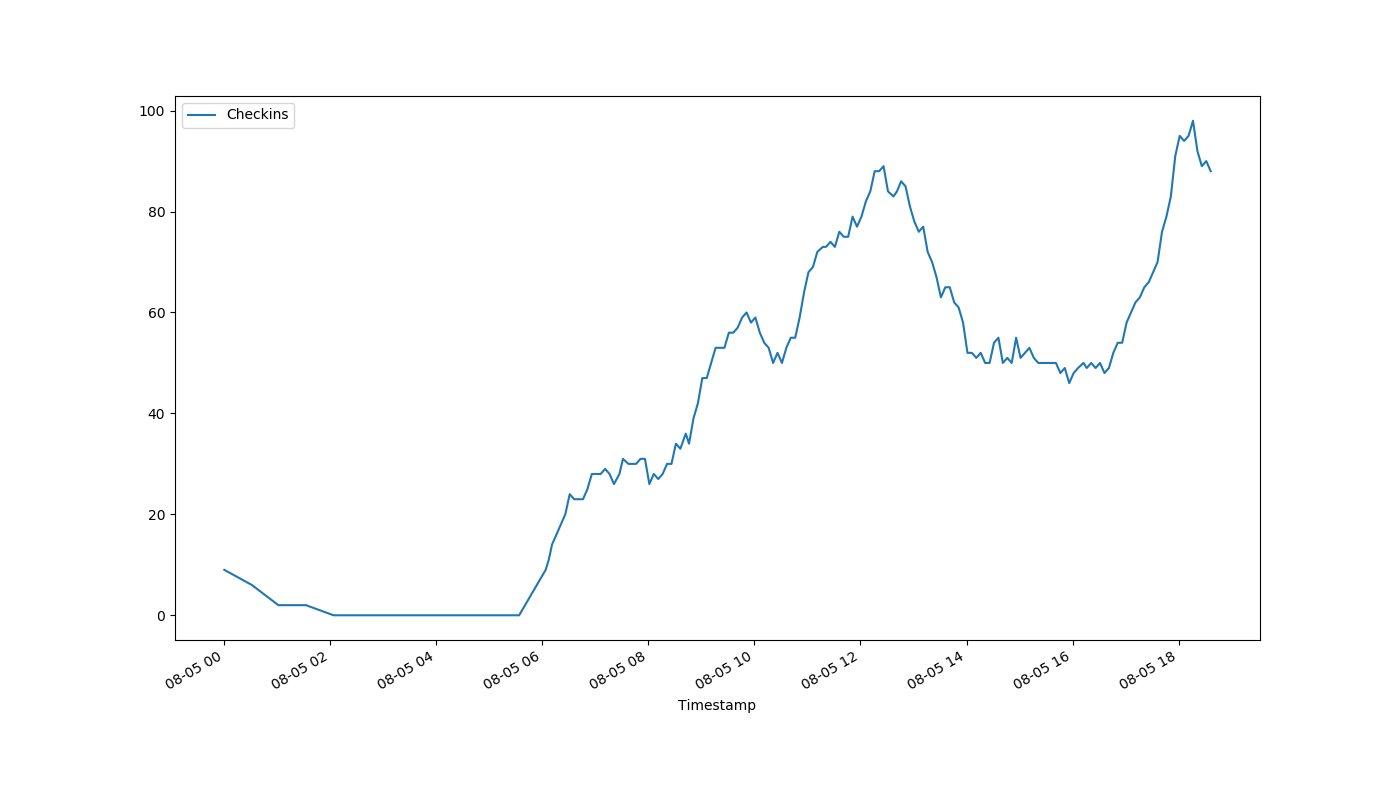
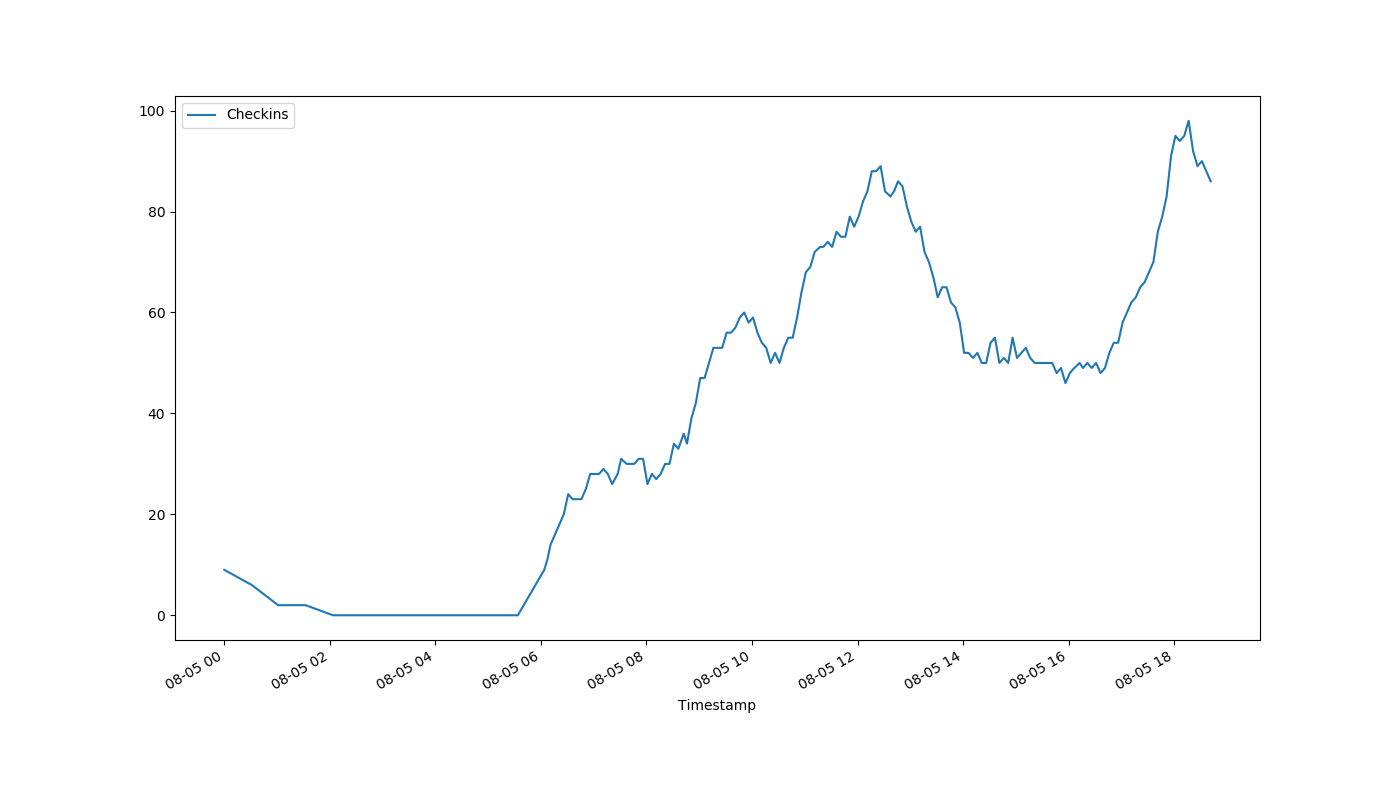
auto-Aug-05-18:42:50

diff --git a/index.html b/index.html
@@ -1,1 +1,1 @@
-<!DOCTYPE html><html><head><meta http-equiv="refresh" content="30"><link rel='stylesheet' href='holmcurrent.css'></head><body><p id='count'>88</p><div id='graph-wrap'><img id='graph' src='holmgraph-Aug-05.png'></div><p id='updated'>Last updated 18:37:03 / 18:36:16</p></body></html>
+<!DOCTYPE html><html><head><meta http-equiv="refresh" content="30"><link rel='stylesheet' href='holmcurrent.css'></head><body><p id='count'>86</p><div id='graph-wrap'><img id='graph' src='holmgraph-Aug-05.png'></div><p id='updated'>Last updated 18:42:03 / 18:41:17</p></body></html>
